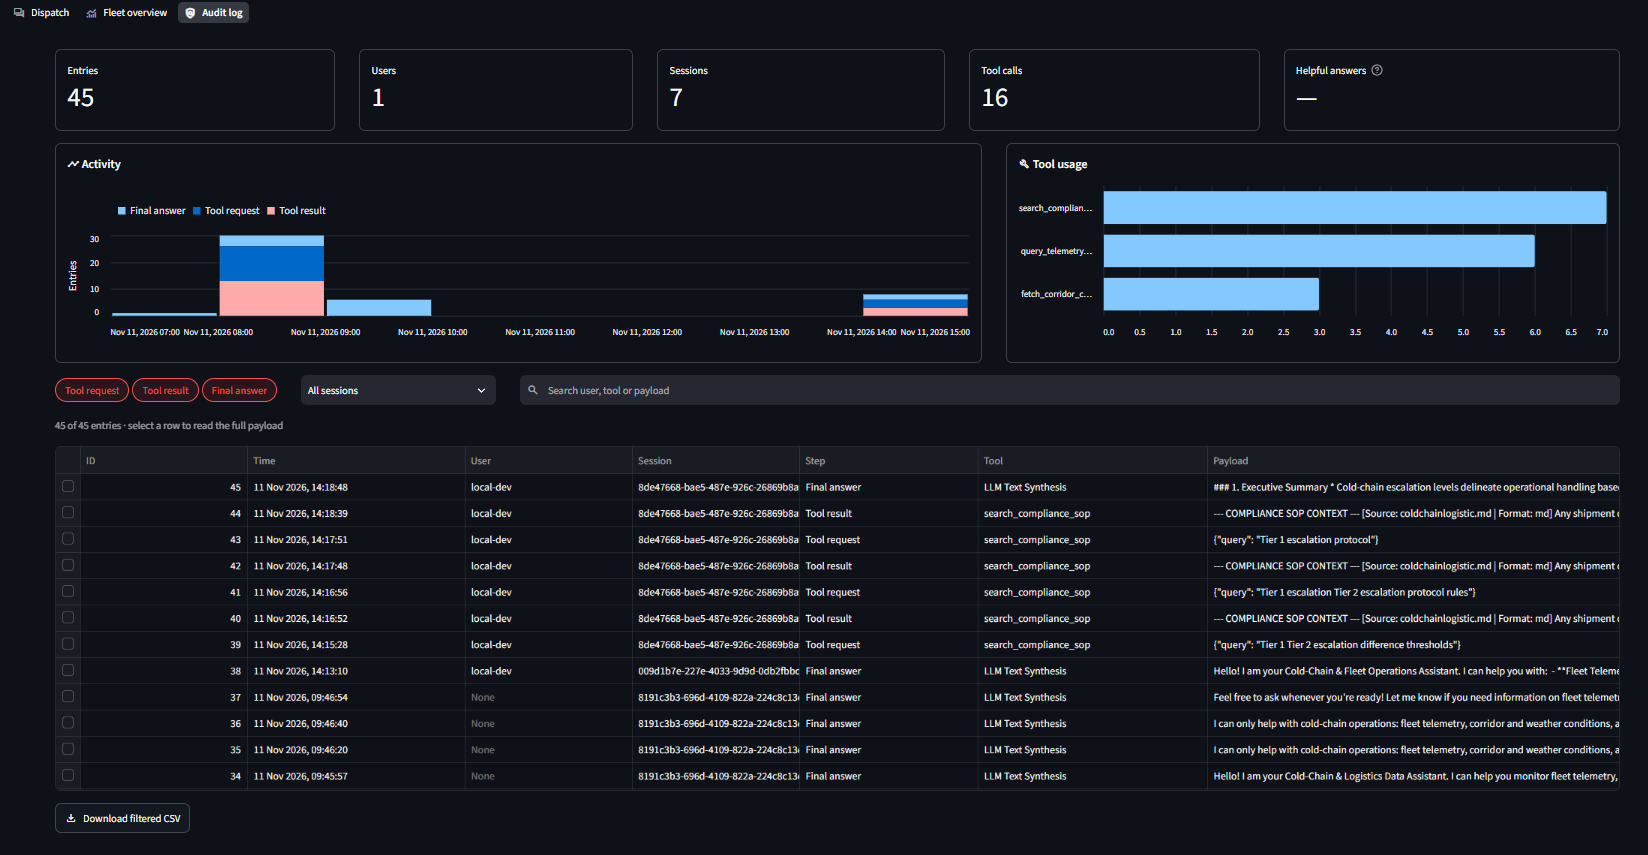
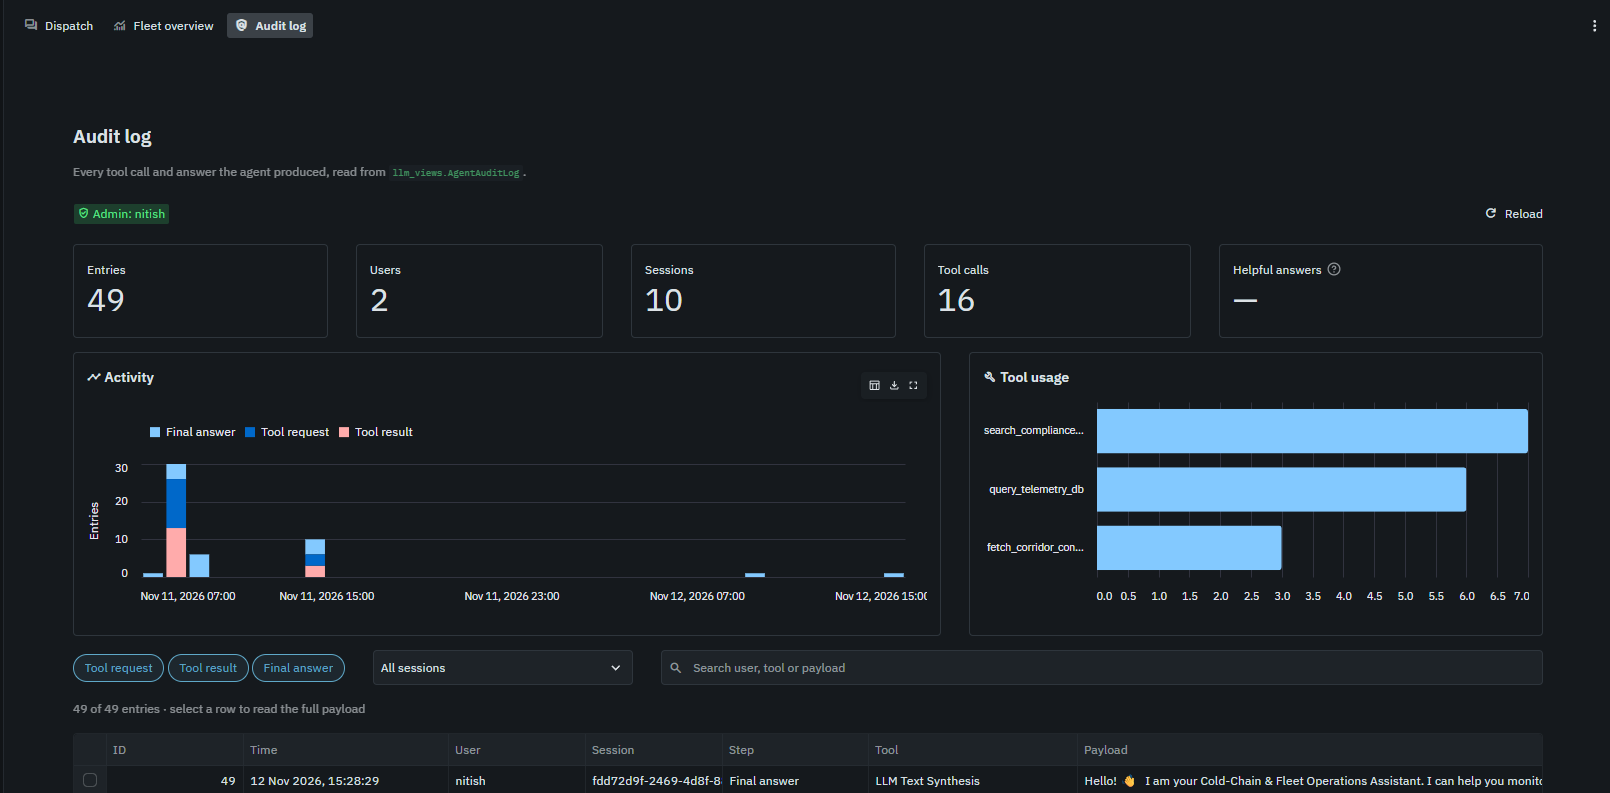
Upadated readme and added screenshots.

diff --git a/README.md b/README.md
@@ -215,8 +215,8 @@ flowchart LR
 
 **1. Clone and install**
 ```bash
-git clone <your-repo-url>
-cd <repo-folder>
+git clone https://github.com/initishkumaryadav/Agentic.git
+cd Agentic
 python -m venv .venv
 .venv\Scripts\activate          
 
